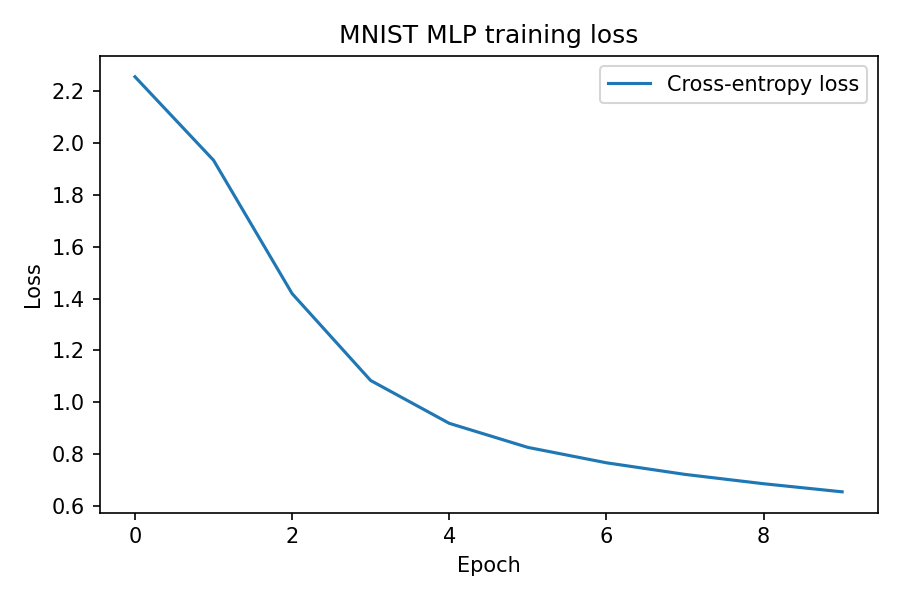
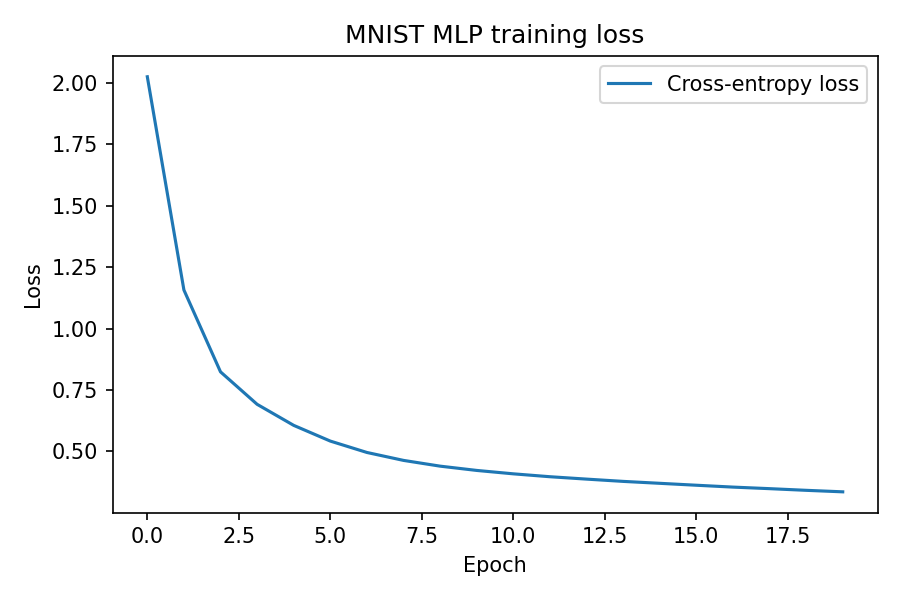
Rerun MNIST MLP example (new config) and refresh generated artifacts
Regenerates loss_history.csv, per_class_accuracy.csv and the plot PNGs from a
fresh training run with updated hyperparameters. Also includes the pre-existing
CMakeLists target_include_directories fix for the example executables and the
linear_regression example em-dash cleanup.

diff --git a/examples/linear_regression/linear_regression.cpp b/examples/linear_regression/linear_regression.cpp
@@ -27,7 +27,7 @@ int main() {
     const float lr = 0.01f;
     const int batch_size = 10;
 
-    std::cout << "Step 5.11 — End-to-end linear regression\n";
+    std::cout << "Step 5.11 - End-to-end linear regression\n";
     std::cout << "Generating synthetic data: y = " << true_weight << " * x + " << true_bias
               << " + noise\n";
 
@@ -73,7 +73,7 @@ int main() {
 
         if ((epoch + 1) % 10 == 0 || epoch == 0) {
             std::cout << "epoch " << (epoch + 1) << "/" << epochs
-                      << " — loss: " << epoch_loss << "\n";
+                      << " - loss: " << epoch_loss << "\n";
         }
     }
 
